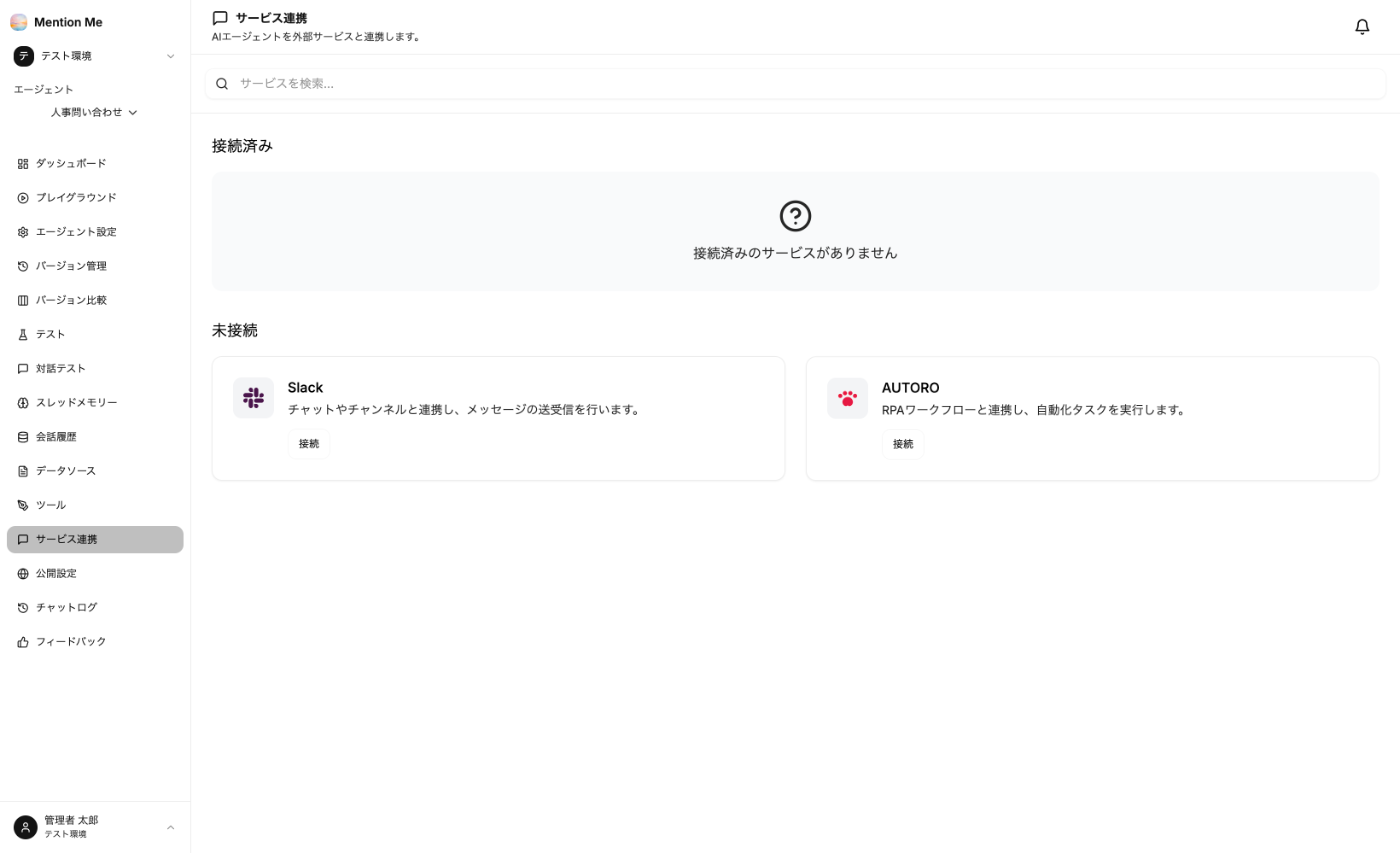
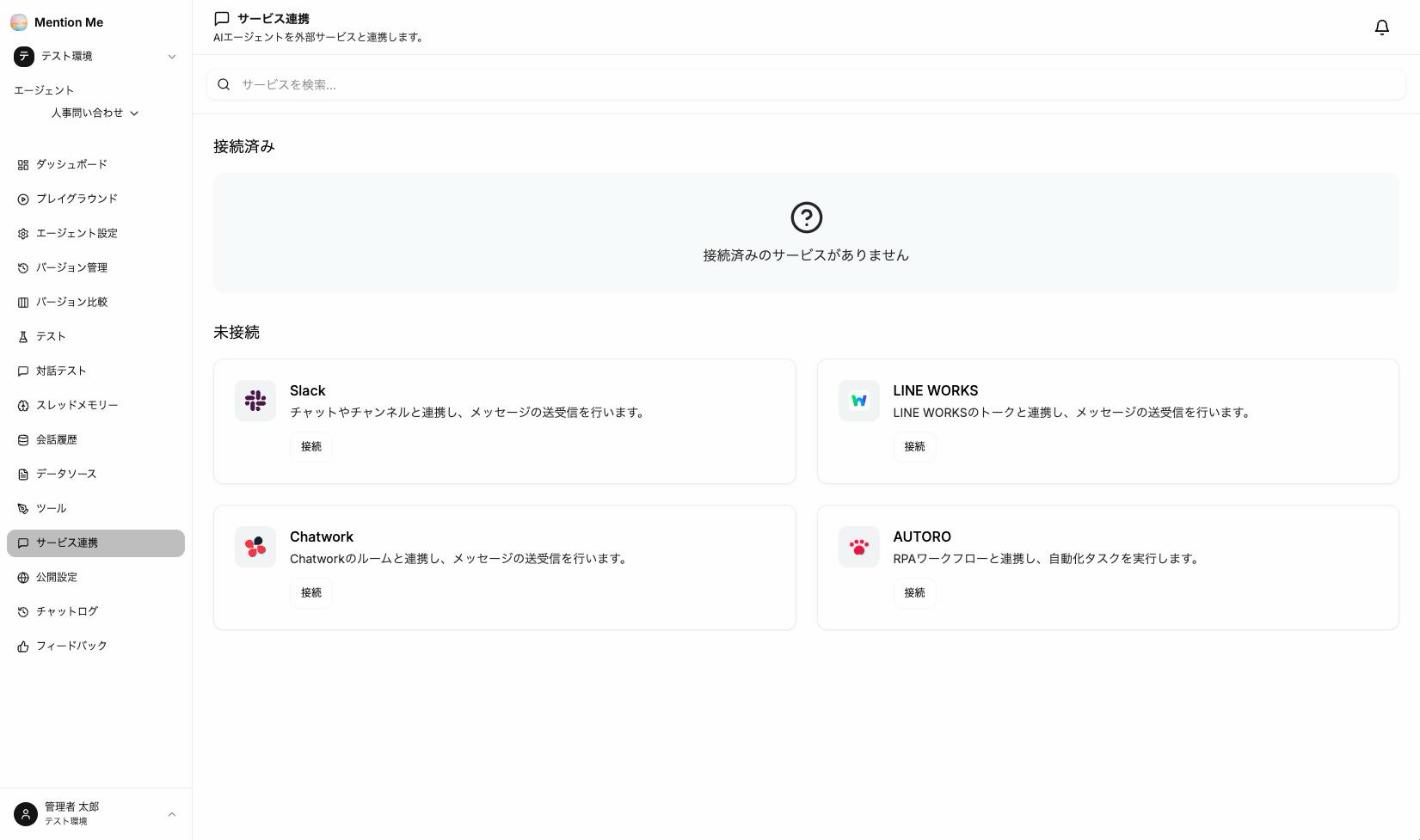
v0.11.0・v0.12.0 の本番反映に合わせて更新（LINE WORKS・Chatwork 連携、出力形式、出典）

diff --git a/src/content/docs/guides/integration.md b/src/content/docs/guides/integration.md
@@ -1,6 +1,6 @@
 ---
 title: ③-6 チャットツールと連携する
-description: Slack との連携
+description: Slack・LINE WORKS・Chatwork との連携
 ---
 
 エージェントをチャットツールと連携すると、普段使っているチャットからエージェントにメンションして質問できます。エージェントの左メニューから「サービス連携」を選択します。
@@ -14,6 +14,8 @@ description: Slack との連携
 | サービス | 連携の単位 |
 | --- | --- |
 | Slack | チャンネル・DM |
+| LINE WORKS | トーク（1:1・複数人） |
+| Chatwork | ルーム |
 | AUTORO | RPA ワークフローと連携し、自動化タスクを実行 |
 
 連携はエージェント単位で作成します。エージェントごとに別のチャンネルやアプリへ繋げられます。
@@ -34,6 +36,8 @@ description: Slack との連携
 | サービス | 入力する情報 | 取得先 |
 | --- | --- | --- |
 | Slack | Signing Secret / Bot User OAuth Token | Slack アプリの設定画面 |
+| LINE WORKS | Client ID / Client Secret / Service Account ID / 秘密鍵 / Bot ID / Bot Secret / ドメインID | LINE WORKS Developer Console・管理画面 |
+| Chatwork | APIトークン / Webhookトークン | ボット役の Chatwork アカウントの「サービス連携」 |
 
 **Slack の場合：** 連携画面からアプリの「マニフェスト」をコピーできます。Slack でアプリを新規作成するときにマニフェストを貼り付けると、必要な権限とイベント設定がまとめて設定されます。
 
@@ -52,6 +56,61 @@ description: Slack との連携
 ### Slack の DM で使う
 
 既存の Slack アプリで DM（ダイレクトメッセージ）からも質問できるようにするには、Slack アプリ設定の「Event Subscriptions」に `message.im` イベントを追加してください。チャンネルで使う場合は、チャンネルに Bot を招待する必要があります。
+
+### LINE WORKS と連携する
+
+LINE WORKS の連携画面では、値を確認する場所ごとに入力欄が分かれています。
+
+| 入力欄のまとまり | 入力する値 | 確認する場所 |
+| --- | --- | --- |
+| アプリ | Client ID / Client Secret / Service Account ID / 秘密鍵 | Developer Console の「API」で作成した認証アプリ（OAuth Scopes に `bot` を追加） |
+| Bot | Bot ID / Bot Secret | Developer Console の「Bot」で登録した Bot |
+| ドメイン | ドメインID | 管理画面の「基本設定」にある「会社情報」 |
+
+- 秘密鍵は、アプリの「Private Key」で発行したときにダウンロードしたファイルの中身（`-----BEGIN PRIVATE KEY-----` から `-----END PRIVATE KEY-----` まで）をそのまま貼り付けます。再発行すると前の鍵は使えなくなり、同じアプリを使うほかの連携も止まります
+- 接続する前に、管理画面の「サービス」にある「Bot」でこの Bot を追加し、公開範囲を設定してください
+
+「接続テスト」では、アプリの認証情報・Bot ID・ドメインIDを順に確かめ、項目ごとに結果を表示します。通らなかった場合は連携を作成できません。Bot Secret は接続テストでは確かめられないため、最初のメッセージを受け取ったときに照合します。
+
+接続すると、LINE WORKS 側で行う設定が表示されます。
+
+1. 表示された **Callback URL** をコピーする
+2. Developer Console の「Bot」で使う Bot を開き、Callback URL を On にしてコピーした URL を貼り付ける。受け取るメッセージは「テキスト」だけをオンにする。複数人のトークで使う場合は、「Bot ポリシー」の「トークルームへの招待」も有効にして保存する
+3. Bot を使いたいトークに招待する
+
+Callback URL は、あとから連携の詳細画面でも確認できます。
+
+**返信する条件：**
+
+- 1:1 のトークでは、Bot へのすべての発言に返信します
+- 複数人のトークでは、Bot にメンションした発言にだけ返信します
+
+**受信状況の確認：** 連携のカードと詳細画面に、最後にメッセージを受け取った日時と結果が表示されます。「署名不一致」は Bot Secret、「ドメインID不一致」はドメインIDの誤りが考えられます。「まだ受信していません」のままの場合は、Callback URL の設定を確認してください。
+
+:::note
+Bot を別のエージェントの連携に繋ぎ替えると、繋ぎ替え先のエージェントとは新しい会話として始まります。
+:::
+
+### Chatwork と連携する
+
+Chatwork では、エージェントの返信用に**ボット役の Chatwork アカウント**を1つ用意します。そのアカウントへのメンションに、エージェントが返信します。
+
+1. ボット役のアカウントの **APIトークン** を入力し、「接続テスト」で確認して「接続」する
+2. 表示された **Webhook URL** をコピーする
+3. ボット役のアカウントで「サービス連携」→「Webhook」を開いて新規作成する。Webhook URL にコピーした URL を貼り付け、イベントは「アカウントイベント」の「ご自身へのメンション」を選ぶ
+4. 作成すると表示される **Webhook トークン** を、MentionMe の連携の「Webhookトークン」に貼り付けて保存する
+
+Webhook トークンを登録するまでは、メンションに返信しません。「あとで登録する」を選んだ場合は、連携の詳細画面から登録してください。
+
+APIトークンを別のアカウントのものに変える場合は、Webhook もそのアカウントで作り直し、Webhook トークンも登録し直してください。
+
+**受信状況の確認：** 連携の詳細画面の「最後の受信」に、最後にメッセージを受け取った日時と結果が表示されます。
+
+| 表示 | 確認すること |
+| --- | --- |
+| 署名が一致しませんでした | 登録した Webhook トークンが、Webhook の作成時に表示されたものと同じか |
+| Webhook トークンが未設定のため受け付けませんでした | Webhook トークンを登録したか |
+| 対象外のイベントのため返信しませんでした | Webhook のイベントが「アカウントイベント」の「ご自身へのメンション」になっているか |
 
 ### チャットツールでの使い方
 

diff --git a/src/content/docs/advanced/api.md b/src/content/docs/advanced/api.md
@@ -39,13 +39,23 @@ Authorization: Bearer <APIキー>
 
 ### response_format
 
-回答の形式を指定します。省略時は `text` です。Public API と OpenAI 互換 API で使えます。
+回答の形式を指定します。省略時は、エージェントの[出力形式](../../guides/playground/#出力形式json-で返す)の設定に従います（既定はテキスト）。Public API と OpenAI 互換 API で使えます。
 
 | `type` | 回答の形式 |
 | --- | --- |
 | `text` | 通常の文章 |
 | `json_schema` | 指定した JSON Schema に沿った JSON |
 | `json_object` | 形を指定しない任意の JSON |
+
+エージェントの出力形式を JSON にしている場合の扱いは次のとおりです。
+
+| リクエストの `response_format` | 使われる形式 |
+| --- | --- |
+| 省略 | エージェントの出力形式（公開バージョンがあればその設定） |
+| `text` | 文章（エージェントの設定が JSON でも文章で返します） |
+| `json_schema` / `json_object` | リクエストの指定（エージェントの設定より優先します） |
+
+`response_format` を指定できない非同期 API と Responses API は、常にエージェントの出力形式に従います。
 
 `json_schema` の指定例：
 
@@ -421,6 +431,8 @@ curl https://app.mentionme.jp/v1/chat/completions \
 ### 出典（citations）
 
 回答の根拠にした資料の情報（資料名・該当箇所・ページ番号・スコア）をレスポンスの `citations` に含められます。プレイグラウンドの「引用情報を返す」をオンにしてバージョンを保存すると有効になります。
+
+出典は資料ごとに1件にまとめ、関連度の高い順に並べます。同じ資料の複数の箇所が見つかった場合、ページ番号・見出しは `pageNumbers` / `sectionLabels` にまとめて入ります。
 
 :::caution
 APIキーはパスワードと同様に扱ってください。ブラウザで動くプログラム（JavaScript など）に埋め込むと第三者に読み取られます。必ずサーバー側から呼び出してください。

diff --git a/src/content/docs/guides/playground.md b/src/content/docs/guides/playground.md
@@ -20,6 +20,20 @@ description: 設定を変えながら回答を確認する
 
 回答の末尾には、根拠にした資料名が表示されます（システムプロンプトで指示している場合）。
 
+### 出力形式（JSON で返す）
+
+右側の「出力形式」で「JSON（構造化出力）」を選ぶと、エージェントは決めた形の JSON だけを返します。帳票の読み取りなど、回答をシステムで受け取る用途に使います。システムプロンプトで形を指示するだけの場合と違い、形が崩れた JSON は返りません。
+
+形は次のどちらかで決めます。どちらで編集しても、保存される内容は同じです。
+
+- **フィールドで編集**：フィールドごとに名前・型・説明・必須を入力します。型は 文字列・数値・整数・真偽値・オブジェクト・配列 から選べます。文字列に選択肢を入れると、その中のどれかだけを返します
+- **JSON で編集**：JSON Schema を直接書きます。API の `response_format` の `json_schema.schema` と同じ書き方です
+
+- 説明はモデルに渡されます。「税込みの合計。カンマなしの数値」のように、何を入れるかを書くと精度が上がります
+- 値がないことがある項目は「必須」をオフにしてください。値がないときは null が入るか、キーごと省かれます（モデルによって異なります）
+- 設定はプレイグラウンド・公開 Web チャット・[API](../../advanced/api/#response_format) に反映されます。Slack・LINE WORKS などのチャットツール連携には反映されません
+- 質問と関係ない入力にも JSON の形で答えます。書類を読み取らせるときは、書類ごとに新しい会話にしてください
+
 ### バージョンを作成する
 
 画面右下の「バージョンを作成」から、その時点の設定をバージョンとして保存できます。保存したバージョンは [バージョン管理](../../advanced/versions/) で確認・比較できます。

diff --git a/src/content/docs/reference/release-notes.md b/src/content/docs/reference/release-notes.md
@@ -5,6 +5,21 @@ description: MentionMe の更新内容をお知らせします
 
 MentionMe の更新内容を掲載します。
 
+### 2026-11-16
+
+#### 新機能・機能改善
+
+- **チャットツール連携**：LINE WORKS と連携できるようになりました。1:1 のトークと、複数人のトーク（Bot へのメンション時）で回答します。連携画面で受信状況を確認できます。
+- **出力形式**：プレイグラウンドで、エージェントの回答を決めた形の JSON にする設定を追加しました。API で `response_format` を省略したときも、この設定に従います。
+- **出典**：同じ資料の出典を1件にまとめ、回答に関係する資料だけを表示するようにしました。
+- **エラー表示**：エージェントでエラーが起きたとき、内部のエラーメッセージを表示しないようにしました。
+
+### 2026-11-09
+
+#### 新機能・機能改善
+
+- **チャットツール連携**：Chatwork と連携できるようになりました。ボット役のアカウントへのメンションに回答します。
+
 ### 2026-11-01
 
 #### 新機能・機能改善

diff --git a/src/content/docs/index.md b/src/content/docs/index.md
@@ -6,7 +6,7 @@ description: MentionMe の基本的な使い方について学べる
 ようこそMentionMeへ！
 
 MentionMe は、**社内の資料に基づいて答える AI エージェントを、作る・試す・配る・改善するまで一貫して運用できる**サービスです。
-管理者が資料と振る舞いを設定し、想定質問でのテストで品質を確かめてから公開できます。利用者は Web 画面や、普段お使いの Slack から質問するだけで使えます。
+管理者が資料と振る舞いを設定し、想定質問でのテストで品質を確かめてから公開できます。利用者は Web 画面や、普段お使いの Slack・LINE WORKS・Chatwork から質問するだけで使えます。
 
 ![プレイグラウンドでの回答例](../../../public/agent/playground.png)
 
